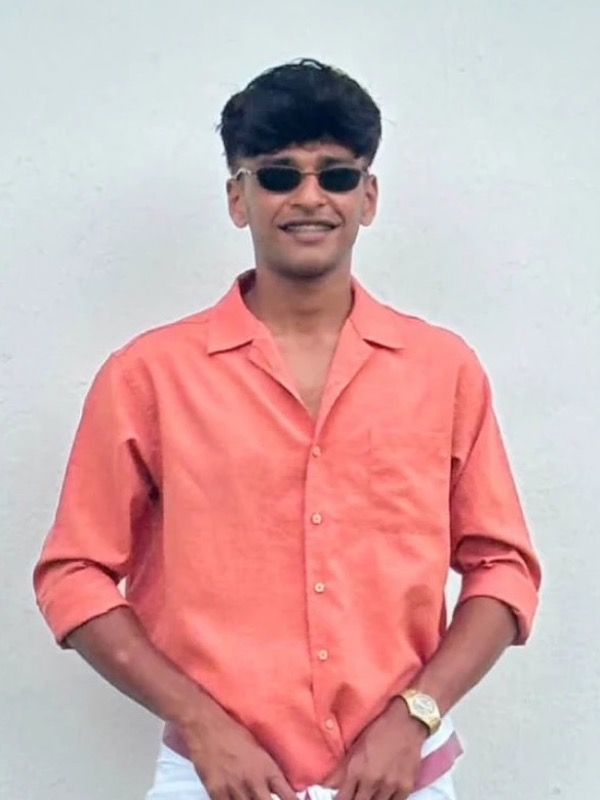
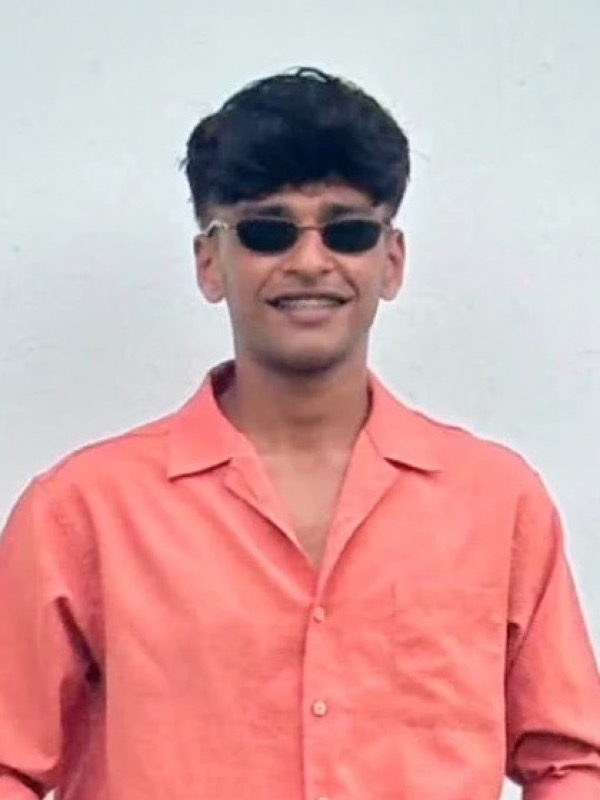
Crop Alan Viju's photo tighter, chest-up

diff --git a/leadership.html b/leadership.html
@@ -108,7 +108,7 @@
     { img: PHOTO.antony, name: "Antony Varghese", role: "Treasurer", term: "October 2026–2028" },
     { img: PHOTO.rohan, name: "Rohan Tom", role: "Male Joint Secretary", term: "October 2026–2028" },
     { img: PHOTO.aleenaJohnson, name: "Aleena Johnson", role: "Female Joint Secretary", term: "October 2026–2028" },
-    { img: "assets/images/leadership/alan-viju.jpg", name: "Alan Viju", role: "Male Youth Councillor", term: "October 2026–2028" },
+    { img: "assets/images/leadership/alan-viju.jpg?v=2", name: "Alan Viju", role: "Male Youth Councillor", term: "October 2026–2028" },
     { img: "assets/images/leadership/alina-shaju.jpg", name: "Alina Shaju", role: "Female Youth Councillor", term: "October 2026–2028" },
   ];
 
